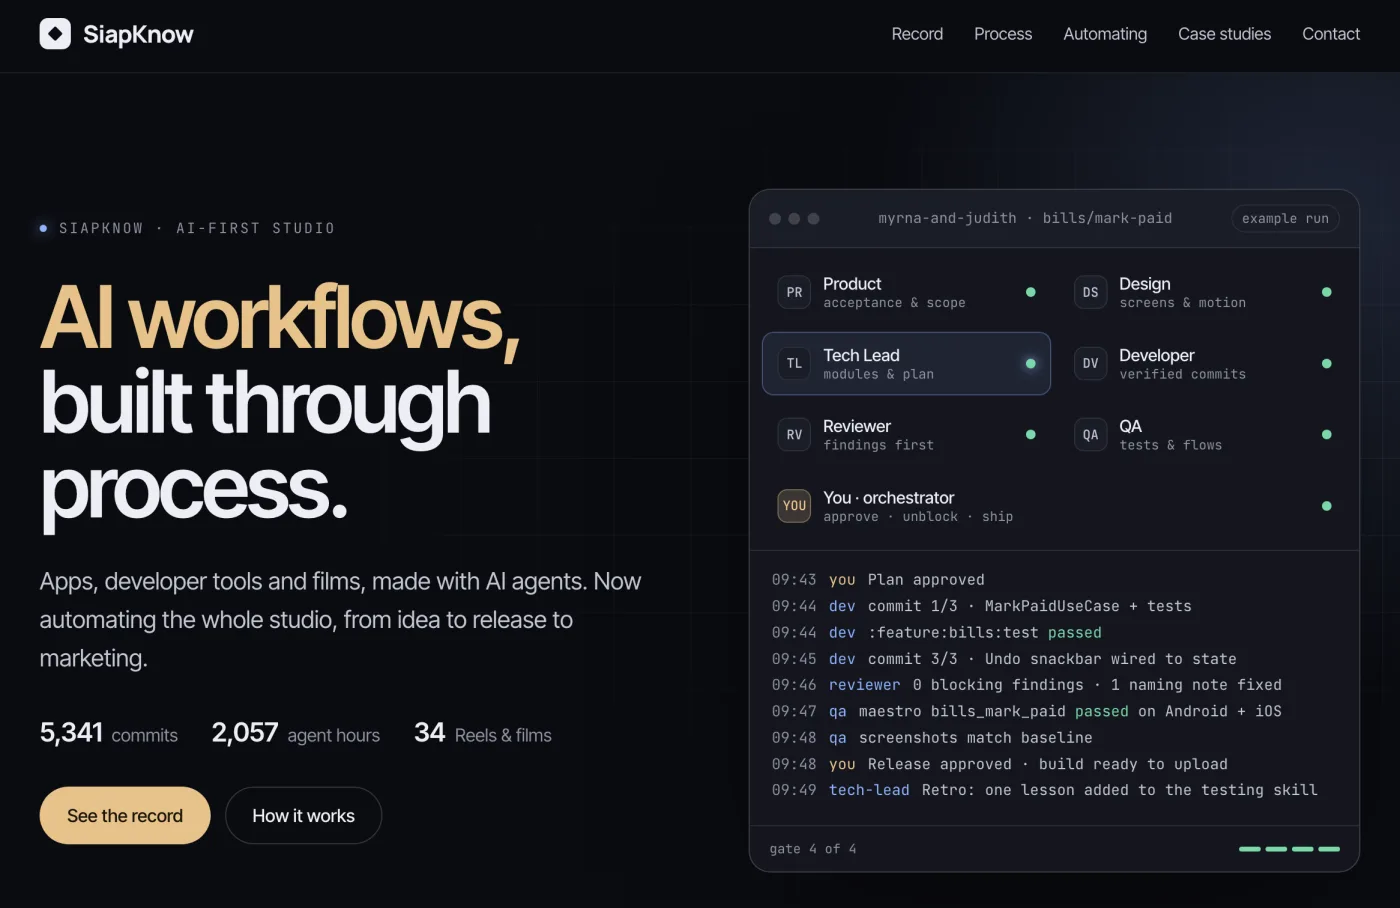
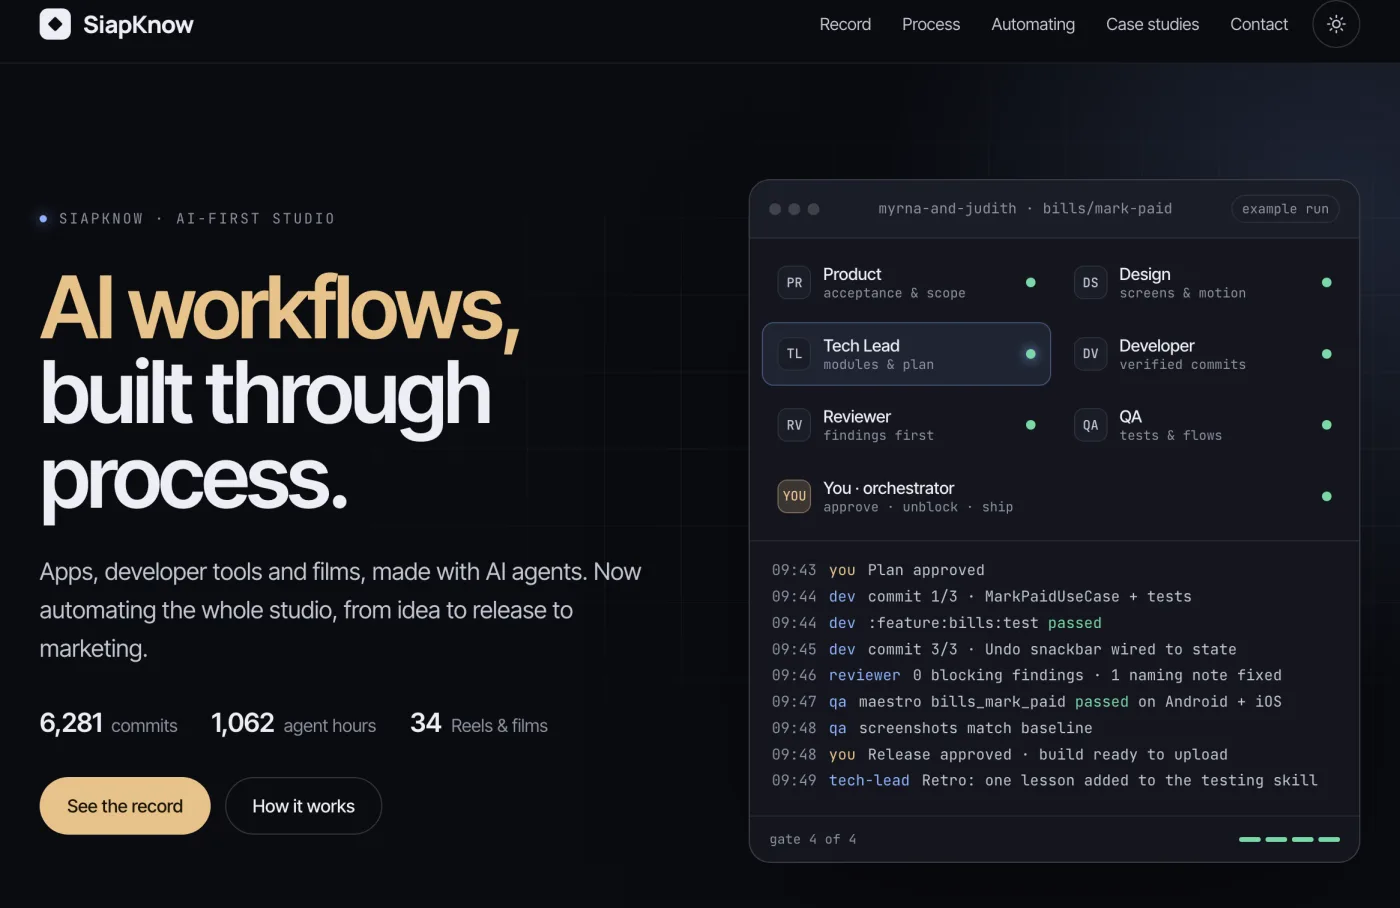
Zoom into the previews, and match siapknow.com's Nov 23 record
Clicking the siapknow.com preview or a Myrna & Judith screenshot opens a
large copy in a dialog (Esc, the close button or the backdrop close it);
without the script, the link opens the image. The page's one script and
its CSP hash cover this.

siapknow.com was recounted and republished on Nov 23, counting only the
session logs still on the Mac, so the numbers here follow it: 6,281
commits, 336 PRs merged, 1,062 agent hours, 39 sessions (up to 13 at
once), 414 sub-agent runs; Myrna & Judith 5,069 commits on main, 292 PRs,
8,118 tests, 35 modules, 34 store builds. The siapknow.com screenshots
are retaken with the new numbers and the site's theme button.

diff --git a/index.html b/index.html
@@ -3,7 +3,7 @@
 <head>
 <meta charset="utf-8">
 <meta name="viewport" content="width=device-width, initial-scale=1, viewport-fit=cover">
-<meta http-equiv="Content-Security-Policy" content="default-src 'self'; script-src 'sha256-k4JmnIRKo4prdqHyQKJsLR6k6a4AsQz148jglb1ETkY='; style-src 'self' https://fonts.googleapis.com; font-src https://fonts.gstatic.com; img-src 'self'; base-uri 'self'; form-action 'none'">
+<meta http-equiv="Content-Security-Policy" content="default-src 'self'; script-src 'sha256-ZA8CMCIAx2T5YCQyEZnHlzwnke5AvUUGh6Wly5QADZo='; style-src 'self' https://fonts.googleapis.com; font-src https://fonts.gstatic.com; img-src 'self'; base-uri 'self'; form-action 'none'">
 <title>Stephen Siapno · Senior Android engineer, building AI-first</title>
 <meta name="description" content="Stephen Siapno is a senior Android engineer (native Android since 2016, Kotlin Multiplatform apps and libraries) who builds AI-first. He runs SiapKnow, an AI-first studio whose app Myrna &amp; Judith is live on the App Store and Google Play.">
 <link rel="canonical" href="https://thesetox.github.io/">
@@ -199,21 +199,24 @@ FINISH: unreviewed and undocumented is unfinished; this build ends with the fini
               <p class="entry__lead">My AI-first studio for apps, developer tools and films. Agents do the product, design, development, review, QA and release work; I set the direction, unblock them, and approve each plan and release.</p>
               <ul class="changes">
                 <li><span class="label label--added">Added</span><span>MainHarness, the delivery harness that turns AI agents into a disciplined team: 17 skills, 5 roles, 12 rule sets and 9 tools.</span></li>
-                <li><span class="label label--added">Added</span><span>Parallel Claude Code sessions, one per role, each with sub-agents: 79 sessions so far, up to 26 at once.</span></li>
-                <li><span class="label label--added">Shipped</span><span>Two pipelines: software, with 291 app pull requests merged and 31 store builds, and video, with 32 Reels and 2 films.</span></li>
+                <li><span class="label label--added">Added</span><span>Parallel Claude Code sessions, one per role, each with sub-agents: 39 sessions in the logs, up to 13 at once.</span></li>
+                <li><span class="label label--added">Shipped</span><span>Two pipelines: software, with 292 app pull requests merged and 34 store builds, and video, with 32 Reels and 2 films.</span></li>
                 <li><span class="label label--changed">Changed</span><span>Every release ends with a retrospective that updates the rules and skills: 41 harness updates so far.</span></li>
               </ul>
-              <p class="shortstat"><span><b>5,341</b> commits</span><span><b>334</b> pull requests merged</span><span><b>1,257</b> sub-agent runs</span><span><b>2,057</b> agent hours</span><span class="shortstat__note">Counted <time datetime="2026-11-18">Nov 18, 2026</time></span></p>
+              <p class="shortstat"><span><b>6,281</b> commits</span><span><b>336</b> pull requests merged</span><span><b>414</b> sub-agent runs</span><span><b>1,062</b> agent hours</span><span class="shortstat__note">Counted <time datetime="2026-11-23">Nov 23, 2026</time></span></p>
               <p class="links">
                 <a class="link-out link-out--strong" href="https://siapknow.com/">siapknow.com<svg class="icon" viewBox="0 0 20 20" aria-hidden="true"><path d="M7 13 13 7m-5 0h5v5"/></svg></a>
                 <a class="link-out" href="https://siapknow.com/#record">How it’s counted<svg class="icon" viewBox="0 0 20 20" aria-hidden="true"><path d="M7 13 13 7m-5 0h5v5"/></svg></a>
               </p>
             </div>
             <figure class="cover cover--siapknow">
-              <picture>
-                <source srcset="media/siapknow-preview-dark.webp" media="(prefers-color-scheme: dark)">
-                <img src="media/siapknow-preview-light.webp" width="1400" height="908" loading="lazy" alt="siapknow.com: the headline “AI workflows, built through process.”, the record of 5,341 commits, 2,057 agent hours and 34 Reels and films, and a live console where Product, Design, Tech Lead, Developer, Reviewer and QA agents take a Myrna &amp; Judith change through four approval gates.">
-              </picture>
+              <a class="zoom" href="media/siapknow-preview-light-large.webp" data-zoom-dark="media/siapknow-preview-dark-large.webp" aria-haspopup="dialog">
+                <picture>
+                  <source srcset="media/siapknow-preview-dark.webp" media="(prefers-color-scheme: dark)">
+                  <img src="media/siapknow-preview-light.webp" width="1400" height="908" loading="lazy" alt="siapknow.com: the headline “AI workflows, built through process.”, the record of 6,281 commits, 1,062 agent hours and 34 Reels and films, and a live console where Product, Design, Tech Lead, Developer, Reviewer and QA agents take a Myrna &amp; Judith change through four approval gates.">
+                </picture>
+                <span class="zoom__hint" aria-hidden="true"><svg class="icon" viewBox="0 0 20 20"><path d="M8.5 3.5a5 5 0 1 0 0 10 5 5 0 0 0 0-10zM12.2 12.2 16.5 16.5M6.5 8.5h4M8.5 6.5v4"/></svg></span>
+              </a>
               <figcaption class="cover__caption">siapknow.com</figcaption>
             </figure>
           </article>
@@ -225,10 +228,10 @@ FINISH: unreviewed and undocumented is unfinished; this build ends with the fini
               <p class="entry__lead"><strong>Know what’s due before payday.</strong> A bill and payday tracker for Filipinos: Judith keeps the bills, Myrna counts down to payday, and Insight sums up the month.</p>
               <ul class="changes">
                 <li><span class="label label--added">Shipped</span><span>On the App Store and Google Play. It works offline, with no account and no backend.</span></li>
-                <li><span class="label label--added">Added</span><span>Shared UI and logic for Android and iOS with Kotlin Multiplatform and Compose Multiplatform, in 25 modules.</span></li>
+                <li><span class="label label--added">Added</span><span>Shared UI and logic for Android and iOS with Kotlin Multiplatform and Compose Multiplatform, in 35 modules.</span></li>
                 <li><span class="label label--changed">Built</span><span>With no manual development: AI agents write and test every change through SiapKnow’s process. The first production version took two weeks.</span></li>
               </ul>
-              <p class="shortstat"><span><b>3,930</b> commits on main</span><span><b>291</b> pull requests merged</span><span><b>6,485</b> tests</span><span><b>31</b> store builds</span><span class="shortstat__note">Counted <time datetime="2026-11-18">Nov 18, 2026</time></span></p>
+              <p class="shortstat"><span><b>5,069</b> commits on main</span><span><b>292</b> pull requests merged</span><span><b>8,118</b> tests</span><span><b>34</b> store builds</span><span class="shortstat__note">Counted <time datetime="2026-11-23">Nov 23, 2026</time></span></p>
               <p class="links">
                 <a class="link-out link-out--strong" href="https://apps.apple.com/us/app/myrna-judith/id6767477202">App Store<svg class="icon" viewBox="0 0 20 20" aria-hidden="true"><path d="M7 13 13 7m-5 0h5v5"/></svg></a>
                 <a class="link-out link-out--strong" href="https://play.google.com/store/apps/details?id=app.myrnaandjudith">Google Play<svg class="icon" viewBox="0 0 20 20" aria-hidden="true"><path d="M7 13 13 7m-5 0h5v5"/></svg></a>
@@ -237,9 +240,9 @@ FINISH: unreviewed and undocumented is unfinished; this build ends with the fini
             </div>
             <figure class="cover cover--mj">
               <div class="shots">
-                <img src="media/mj-store-03-mark-all-paid.webp" width="506" height="1100" loading="lazy" alt="App Store screenshot: marking all of a payday's bills as paid in one tap.">
-                <img src="media/mj-store-01-know-whats-due.webp" width="506" height="1100" loading="lazy" alt="App Store screenshot: Myrna says payday is in 8 days and how much to keep aside for the bills before then.">
-                <img src="media/mj-store-04-heavy-months.webp" width="506" height="1100" loading="lazy" alt="App Store screenshot: Insight flags the heavy months ahead.">
+                <a class="zoom" href="media/mj-store-03-mark-all-paid-large.webp" aria-haspopup="dialog"><img src="media/mj-store-03-mark-all-paid.webp" width="506" height="1100" loading="lazy" alt="App Store screenshot: marking all of a payday's bills as paid in one tap."><span class="zoom__hint" aria-hidden="true"><svg class="icon" viewBox="0 0 20 20"><path d="M8.5 3.5a5 5 0 1 0 0 10 5 5 0 0 0 0-10zM12.2 12.2 16.5 16.5M6.5 8.5h4M8.5 6.5v4"/></svg></span></a>
+                <a class="zoom" href="media/mj-store-01-know-whats-due-large.webp" aria-haspopup="dialog"><img src="media/mj-store-01-know-whats-due.webp" width="506" height="1100" loading="lazy" alt="App Store screenshot: Myrna says payday is in 8 days and how much to keep aside for the bills before then."><span class="zoom__hint" aria-hidden="true"><svg class="icon" viewBox="0 0 20 20"><path d="M8.5 3.5a5 5 0 1 0 0 10 5 5 0 0 0 0-10zM12.2 12.2 16.5 16.5M6.5 8.5h4M8.5 6.5v4"/></svg></span></a>
+                <a class="zoom" href="media/mj-store-04-heavy-months-large.webp" aria-haspopup="dialog"><img src="media/mj-store-04-heavy-months.webp" width="506" height="1100" loading="lazy" alt="App Store screenshot: Insight flags the heavy months ahead."><span class="zoom__hint" aria-hidden="true"><svg class="icon" viewBox="0 0 20 20"><path d="M8.5 3.5a5 5 0 1 0 0 10 5 5 0 0 0 0-10zM12.2 12.2 16.5 16.5M6.5 8.5h4M8.5 6.5v4"/></svg></span></a>
               </div>
               <figcaption class="cover__caption">App Store screenshots</figcaption>
             </figure>
@@ -467,8 +470,35 @@ FINISH: unreviewed and undocumented is unfinished; this build ends with the fini
 
 </main>
 
+<dialog class="lightbox" aria-label="Enlarged image">
+  <button class="lightbox__close" type="button" aria-label="Close">
+    <svg class="icon" viewBox="0 0 20 20" aria-hidden="true"><path d="M5 5l10 10M15 5 5 15"/></svg>
+  </button>
+  <figure class="lightbox__figure">
+    <img class="lightbox__image" src="media/siapknow-preview-light-large.webp" loading="lazy" decoding="async" alt="">
+    <figcaption class="lightbox__caption"></figcaption>
+  </figure>
+</dialog>
+
 <script>
+var lightbox = document.querySelector(".lightbox");
 document.addEventListener("click", function (event) {
+  var zoom = event.target.closest("a.zoom");
+  if (zoom && lightbox && lightbox.showModal) {
+    event.preventDefault();
+    var picture = zoom.querySelector("img");
+    var dark = zoom.dataset.zoomDark && matchMedia("(prefers-color-scheme: dark)").matches;
+    var image = lightbox.querySelector(".lightbox__image");
+    image.src = dark ? zoom.dataset.zoomDark : zoom.getAttribute("href");
+    image.alt = picture ? picture.alt : "";
+    lightbox.querySelector(".lightbox__caption").textContent = picture ? picture.alt : "";
+    lightbox.showModal();
+    return;
+  }
+  if (lightbox && (event.target === lightbox || event.target.closest(".lightbox__close"))) {
+    lightbox.close();
+    return;
+  }
   var link = event.target.closest('a[href^="#"]');
   if (!link) return;
   var target = document.getElementById(decodeURIComponent(link.hash.slice(1)));

diff --git a/site.css b/site.css
@@ -379,17 +379,19 @@ h1 {
   background: var(--sk-field); color: var(--sk-ink); box-shadow: inset 0 0 0 1px var(--sk-line);
 }
 .cover--siapknow img { width: 100%; border-radius: 9px; }
+.cover--siapknow .zoom { border-radius: 9px; }
 .cover--siapknow .cover__caption { text-align: center; color: var(--sk-muted); }
 
 .cover--mj { display: grid; gap: 14px; padding: 26px 18px 18px; background: var(--mj-field); color: var(--mj-ink); }
 .shots { display: flex; justify-content: center; align-items: flex-end; }
-.shots img {
+.shots .zoom {
   width: 34%; max-width: 156px; border-radius: 16px;
   box-shadow: 0 18px 30px -16px var(--mj-shadow), 0 2px 6px rgba(35, 64, 31, 0.12);
 }
-.shots img:nth-child(1) { transform: translateX(14%) rotate(-5deg) scale(0.9); transform-origin: bottom center; }
-.shots img:nth-child(2) { position: relative; z-index: 1; }
-.shots img:nth-child(3) { transform: translateX(-14%) rotate(5deg) scale(0.9); transform-origin: bottom center; }
+.shots .zoom img { width: 100%; border-radius: 16px; }
+.shots .zoom:nth-child(1) { transform: translateX(14%) rotate(-5deg) scale(0.9); transform-origin: bottom center; }
+.shots .zoom:nth-child(2) { z-index: 1; }
+.shots .zoom:nth-child(3) { transform: translateX(-14%) rotate(5deg) scale(0.9); transform-origin: bottom center; }
 .cover--mj .cover__caption { text-align: center; color: var(--mj-ink); }
 
 /* Skills: one ruled row per group */
@@ -480,6 +482,44 @@ h1 {
 .articles li::marker { font-family: var(--mono); font-size: 13px; }
 .articles .link-out { min-height: 40px; }
 .notes-writing { padding-top: 24px; border-top: 1px solid var(--rule); }
+
+/* Zoom: each preview opens a large copy in a dialog. Without the script, the link opens the image. */
+.zoom { display: block; position: relative; cursor: zoom-in; }
+.zoom:focus-visible { outline-offset: 4px; }
+.zoom__hint {
+  position: absolute; right: 8px; bottom: 8px;
+  display: grid; place-items: center; width: 32px; height: 32px; border-radius: 50%;
+  background: rgba(14, 16, 24, 0.72); color: #ffffff;
+  opacity: 0; transition: opacity 0.2s var(--ease-out);
+}
+.zoom__hint .icon { width: 16px; height: 16px; }
+.zoom:hover .zoom__hint, .zoom:focus-visible .zoom__hint { opacity: 1; }
+@media (hover: none) { .zoom__hint { opacity: 1; } }
+
+.lightbox {
+  width: 100vw; max-width: none; height: 100dvh; max-height: none;
+  margin: 0; padding: 0; border: 0; background: transparent; color: #eef1f5;
+}
+.lightbox[open] { display: grid; place-items: center; }
+.lightbox::backdrop { background: rgba(8, 10, 14, 0.88); }
+.lightbox__figure { display: grid; justify-items: center; gap: 14px; padding: 64px 16px 24px; }
+.lightbox__image {
+  width: auto; height: auto; max-width: min(94vw, 1400px); max-height: calc(100dvh - 150px);
+  border-radius: 12px; box-shadow: 0 30px 60px -24px rgba(0, 0, 0, 0.7);
+}
+.lightbox__caption { max-width: 70ch; font-size: 15px; line-height: 1.5; text-align: center; color: #c8ceda; }
+.lightbox__close {
+  position: fixed; top: max(14px, env(safe-area-inset-top)); right: max(14px, env(safe-area-inset-right));
+  display: grid; place-items: center; width: 44px; height: 44px; border-radius: 50%;
+  border: 1px solid rgba(255, 255, 255, 0.3); background: rgba(255, 255, 255, 0.08); color: #ffffff;
+  cursor: pointer;
+}
+.lightbox__close:hover { background: rgba(255, 255, 255, 0.16); }
+.lightbox__close:focus-visible { outline-color: #ffffff; }
+@media (prefers-reduced-motion: no-preference) {
+  .lightbox[open] .lightbox__image { animation: lightbox-in 0.28s var(--ease-out); }
+  @keyframes lightbox-in { from { transform: scale(0.96); opacity: 0; } to { transform: none; opacity: 1; } }
+}
 
 /* Redirect pages and the 404 page */
 .moved { padding-top: 96px; padding-bottom: 96px; }

diff --git a/tools/check.py b/tools/check.py
@@ -131,9 +131,9 @@ def check_page(name: str, problems: list, anchors_cache: dict):
     for attrs, line in p.images:
         if "alt" not in attrs:
             problems.append(f"{name} line {line}: image without alt text")
-        if not (attrs.get("width") and attrs.get("height")):
+        if not (attrs.get("width") and attrs.get("height")) and "lightbox__image" not in attrs.get("class", ""):
             problems.append(f"{name} line {line}: image without width and height")
-        t = local_target(page, attrs.get("src", ""))
+        t = local_target(page, attrs["src"]) if attrs.get("src") else None
         if t and not t[0].exists():
             problems.append(f"{name} line {line}: image {attrs.get('src')} is missing")
 

diff --git a/DESIGN.md b/DESIGN.md
@@ -461,7 +461,7 @@ Flat. Page surfaces cast no shadows; depth is tonal: the white Assets panel on p
 - **Behaviour:** pure CSS with `:has()`. A chip hides entries of other kinds and any year left empty. Work and Experience in the menu select Products and Roles; a link to a hidden release resets the filter to All.
 
 ### Shortstat lines
-- JetBrains Mono 13.5px in Pewter, counts in 600 Navy Ink, items wrapping with 4px by 18px gaps, 18px below the change lines. Each line ends with the date it was counted ("Counted Nov 18, 2026").
+- JetBrains Mono 13.5px in Pewter, counts in 600 Navy Ink, items wrapping with 4px by 18px gaps, 18px below the change lines. Each line ends with the date it was counted ("Counted Nov 23, 2026").
 
 ### Assets panel
 - **Panel:** Panel White, 1px Rule border, 14px corners, 8px padding; the title sits at 12px 12px 8px.
@@ -473,6 +473,10 @@ Flat. Page surfaces cast no shadows; depth is tonal: the white Assets panel on p
 - **Frame:** 14px corners, clipped; a centred caption, 13.5px 600, under the picture. From 1120px the cover sits beside the notes, sticky at 96px.
 - **SiapKnow:** SiapKnow Field inside a SiapKnow Hairline inset ring, padded 12px 12px 14px with 12px between its parts: a full-width screenshot of siapknow.com with 9px corners (a `<picture>` that serves the dark capture under `prefers-color-scheme: dark`), then the caption "siapknow.com" in SiapKnow Muted.
 - **Myrna & Judith:** Leaf Field, padded 26px 18px 18px with 14px between its parts: three App Store screenshots fanned from the bottom centre (the outer two at ∓5°, 0.9 scale, pulled 14% inward; the middle one on top), each 34% wide up to 156px with 16px corners and the screenshot lift; then the caption in Leaf Ink.
+
+### Zoom and lightbox
+- **Zoom links:** each cover image links to a large copy (`-large.webp`; SiapKnow's carries a dark copy in `data-zoom-dark`). The cursor is zoom-in; a 32px dark circle with a magnifier sits 8px from the bottom-right corner, shown on hover and focus, and always on touch screens. Without the script, the link simply opens the image.
+- **Lightbox:** a native `<dialog>` over a backdrop of rgba(8, 10, 14, 0.88). The image fits within 94vw (at most 1400px) and the viewport height less 150px, with 12px corners and a deep soft shadow. The alt text shows below it as a 15px caption. A 44px circular close button sits top-right; Esc, the close button or a click on the backdrop close it. It scales in from 0.96 over 0.28s, which reduced motion turns off.
 
 ### Navigation
 - **Header:** sticky, opaque Cool Paper, 1px Rule bottom edge, a 64px row with 24px gaps: the Manrope name, the section links, the small primary Resume button. Below 760px the gap tightens to 8px and the Resume pill to 14px side padding; at 380px and under the name drops to 18px.

diff --git a/PRODUCT.md b/PRODUCT.md
@@ -56,24 +56,24 @@ The user: "I want to build my website as AI-first; that is why I created siapkno
 
 ## Evidence on Hand
 
-- **SiapKnow record**, counted Nov 18, 2026 from git, GitHub and session logs, since Apr 2026:
-  - 5,341 commits across 8 repositories, 84% co-written in Claude Code
-  - 334 of 367 pull requests merged
-  - 907K lines of code, plus 128K lines of docs
-  - 6,485 automated tests in Myrna & Judith
-  - 2,057 agent hours in 47 days
-  - 1,257 sub-agent runs across 79 sessions, with up to 26 at once
+- **SiapKnow record**, recounted Nov 23, 2026 from git, GitHub and session logs, since Apr 2026. Agent hours, sessions and sub-agent runs count only the Claude Code logs still on the Mac, even when that lowers them (the user's choice, 2026-11-23):
+  - 6,281 commits across 8 repositories, 86% co-written in Claude Code
+  - 336 of 370 pull requests merged
+  - 1.1M lines of code, plus 140K lines of docs
+  - 8,118 automated tests in Myrna & Judith
+  - 1,062 agent hours
+  - 414 sub-agent runs across 39 sessions, with up to 13 at once
   - 34 Reels and films
   - 55 artifacts
 
-  Also on siapknow.com: 5 releases and 41 harness updates; the video pipeline's 32 Reels and 2 films; 291 app pull requests merged and 31 store builds.
+  Also on siapknow.com: 5 releases and 41 harness updates; the video pipeline's 32 Reels and 2 films; 292 app pull requests merged and 34 store builds.
   These numbers are refreshed by hand only, when the user asks (`siapknow-website/tools/metrics.py`).
 - **Myrna & Judith:**
   - Live on the App Store (`id6767477202`) and Google Play (`app.myrnaandjudith`): free, Android 8.0 or later.
   - Website: https://myrnaandjudith.com.
   - Built with Kotlin Multiplatform and Compose Multiplatform: offline-first, no account or backend, Firebase Analytics and Crashlytics.
   - The first production version was built in two weeks.
-  - Counts: 3,930 commits on main, 291 PRs merged, 25 modules, 31 store builds, 292K Kotlin lines.
+  - Counts (Nov 23, 2026): 5,069 commits on main, 292 PRs merged, 35 modules, 34 store builds, 385K Kotlin lines, 8,118 tests.
 - **CommitPath:** a free, offline-first Kotlin knowledge refresher with flashcards and guided lessons. It's on the App Store (`id6816756095`), its site is https://thesetox.github.io/commitpath-site/, and version 2 (AI flashcards) is in progress.
 - **MainHarness:** a portable delivery harness that turns AI agents (Codex, GitHub Copilot, Claude Code) into a disciplined team: 17 skills, 5 roles, 12 rule sets and 9 tools. The repo is private and is described publicly on siapknow.com.
 - **Toolbox:** an AI tool for developers, in progress. It has no public page.

diff --git a/README.md b/README.md
@@ -22,7 +22,8 @@ The site is hand-built: what is in this repo is what GitHub Pages serves, with n
 
 ## Updating
 
-- **The numbers** (commits, pull requests, tests, agent hours) mirror siapknow.com's record, counted on Nov 18, 2026. They are refreshed by hand only. When siapknow.com is recounted, update `index.html` and `llms.txt` to match, along with the dates beside them.
+- **The numbers** (commits, pull requests, tests, agent hours) mirror siapknow.com's record, recounted on Nov 23, 2026. They are refreshed by hand only. When siapknow.com is recounted, update `index.html` and `llms.txt` to match, along with the dates beside them.
+- **The previews**: `media/siapknow-preview-{light,dark}.webp` are siapknow.com screenshots (headless Chrome, 1440×900 at 2x, reduced motion so the counters show final numbers), with `-large` copies for the zoom. Retake them when siapknow.com changes. The Myrna & Judith `-large` screenshots come from the store kit.
 - **The resume** is `resources/stephen_siapno_cv.pdf`, exported from the owner's Google Doc (last exported Nov 23, 2026). When the doc changes, export it again and update the size and date on the Resume row in `index.html`.
 - **A new release:** add an `article.entry` to the right year in `index.html`, then a line in `llms.txt`. For a role, add its long version to `notes.html` too.
 - **The filter script:** `index.html` allows its one inline script by SHA-256 hash in the CSP. If you change the script, update the hash, or the browser will block it.
